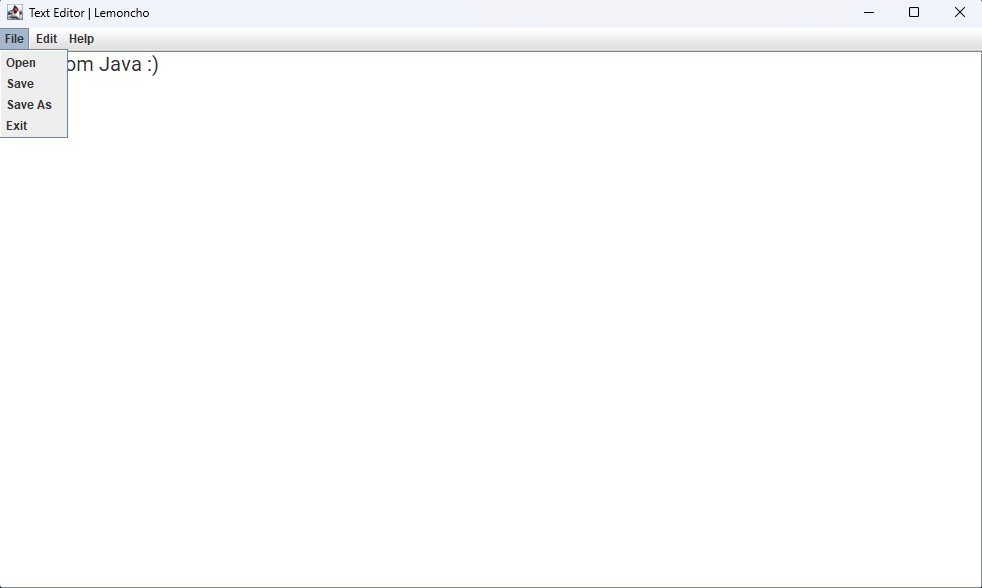
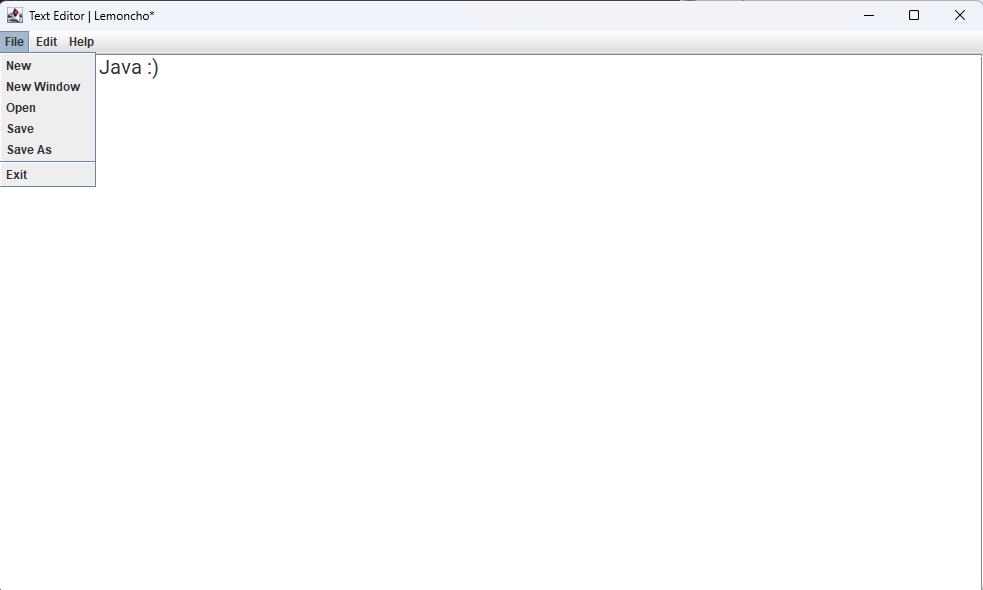
Added unsaved changes dialog
Added unsaved changes dialog. new,new window and word wrap JMenuItems

Changed region(s): [[0.0, 0.0, 1.0, 0.3367], [0.9165, 0.0, 1.0, 0.0306], [0.9776, 0.9796, 1.0, 1.0]]

diff --git a/src/TextEditor.java b/src/TextEditor.java
@@ -1,11 +1,11 @@
 import javax.swing.*;
+import javax.swing.event.DocumentEvent;
+import javax.swing.event.DocumentListener;
 import java.awt.*;
-import java.awt.event.ActionEvent;
-import java.awt.event.ActionListener;
-import java.awt.event.KeyEvent;
+import java.awt.event.*;
 import java.io.*;
 
-public class TextEditor extends JFrame implements ActionListener {
+public class TextEditor extends JFrame implements ActionListener, DocumentListener {
 
     private JTextArea textArea;
     private JScrollPane scrollPane;
@@ -13,6 +13,8 @@ public class TextEditor extends JFrame implements ActionListener {
     private JMenu fileMenu;
     private JMenu editMenu;
     private JMenu helpMenu;
+    private JMenuItem newFileItem;
+    private JMenuItem newWindowItem;
     private JMenuItem openMenuItem;
     private JMenuItem saveMenuItem;
     private JMenuItem saveAsMenuItem;
@@ -20,6 +22,7 @@ public class TextEditor extends JFrame implements ActionListener {
     private JMenuItem copyMenuItem;
     private JMenuItem pasteMenuItem;
     private JMenuItem cutMenuItem;
+    private JCheckBoxMenuItem wordWrapItem;
     private JMenuItem fontSettigsItem;
     private JMenuItem aboutMenuItem;
 
@@ -31,15 +34,45 @@ public class TextEditor extends JFrame implements ActionListener {
 
     public static Font font = new Font("Roboto", Font.PLAIN, 14);
 
+    private boolean unsavedChanges = false;
+
+    private final String frameLabel = "Text Editor | Lemoncho";
+
     public TextEditor(){
-        this.setTitle("Text Editor | Lemoncho");
+        this.setTitle(frameLabel);
         this.setSize(1000, 600);
+
+        this.addWindowListener(new WindowAdapter() {
+            @Override
+            public void windowClosing(WindowEvent e) {
+                super.windowClosing(e);
+
+                if (unsavedChanges)
+                {
+                    setDefaultCloseOperation(JFrame.DO_NOTHING_ON_CLOSE);
+                    int v = showUnsavedChangesDialog();
+                    if (v ==  JOptionPane.YES_OPTION)
+                    {
+                        unsavedChanges = false;
+                        saveFile();
+                        dispose();
+                    } else if (v == JOptionPane.NO_OPTION)
+                    {
+                        unsavedChanges = false;
+                        dispose();
+                    }
+                }
+                else
+                    setDefaultCloseOperation(JFrame.DISPOSE_ON_CLOSE);
+            }
+        });
 
         textArea = new JTextArea();
         textArea.setEditable(true);
         textArea.setLineWrap(false);
         textArea.setFont(font);
         textArea.setSize(this.getSize());
+        textArea.getDocument().addDocumentListener(this);
 
         scrollPane = new JScrollPane(textArea);
 
@@ -62,6 +95,10 @@ public class TextEditor extends JFrame implements ActionListener {
         editMenu = new JMenu("Edit");
         helpMenu = new JMenu("Help");
 
+        newFileItem = new JMenuItem("New");
+        newFileItem.addActionListener(this);
+        newWindowItem = new JMenuItem("New Window");
+        newWindowItem.addActionListener(this);
         openMenuItem = new JMenuItem("Open");
         openMenuItem.addActionListener(this);
         saveMenuItem = new JMenuItem("Save");
@@ -76,6 +113,8 @@ public class TextEditor extends JFrame implements ActionListener {
         pasteMenuItem.addActionListener(this);
         cutMenuItem = new JMenuItem("Cut");
         cutMenuItem.addActionListener(this);
+        wordWrapItem = new JCheckBoxMenuItem("Word Wrap");
+        wordWrapItem.addActionListener(this);
         fontSettigsItem = new JMenuItem("Font Settings");
         fontSettigsItem.addActionListener(this);
         aboutMenuItem = new JMenuItem("About");
@@ -85,14 +124,19 @@ public class TextEditor extends JFrame implements ActionListener {
         menuBar.add(editMenu);
         menuBar.add(helpMenu);
 
+        fileMenu.add(newFileItem);
+        fileMenu.add(newWindowItem);
         fileMenu.add(openMenuItem);
         fileMenu.add(saveMenuItem);
         fileMenu.add(saveAsMenuItem);
+        fileMenu.addSeparator();
         fileMenu.add(exitMenuItem);
 
         editMenu.add(copyMenuItem);
         editMenu.add(pasteMenuItem);
         editMenu.add(cutMenuItem);
+        editMenu.addSeparator();
+        editMenu.add(wordWrapItem);
         editMenu.add(fontSettigsItem);
 
         helpMenu.add(aboutMenuItem);
@@ -100,13 +144,19 @@ public class TextEditor extends JFrame implements ActionListener {
         this.setContentPane(scrollPane);
         //this.getContentPane().add(scrollPane);
         this.setJMenuBar(menuBar);
-        this.setDefaultCloseOperation(JFrame.EXIT_ON_CLOSE);
+        this.setDefaultCloseOperation(JFrame.DISPOSE_ON_CLOSE);
         this.setLocationRelativeTo(null);
         this.setVisible(true);
     }
 
     @Override
     public void actionPerformed(ActionEvent e) {
+        if (e.getSource() == newFileItem)
+            newFile();
+
+        if (e.getSource() == newWindowItem)
+            new TextEditor();
+
         if(e.getSource() == openMenuItem)
             openFile();
 
@@ -133,6 +183,9 @@ public class TextEditor extends JFrame implements ActionListener {
             JOptionPane.showMessageDialog(null, "This is a text editor that includes features like \nchanging the font and is made in java", "About",JOptionPane.INFORMATION_MESSAGE);
         }
 
+        if (e.getSource() == wordWrapItem)
+            textArea.setLineWrap(!textArea.getLineWrap());
+
         if (e.getSource() == fontSettigsItem)
         {
             new FontChooser(this, true);
@@ -140,12 +193,55 @@ public class TextEditor extends JFrame implements ActionListener {
         }
     }
 
+    private void newFile()
+    {
+        int v = showUnsavedChangesDialog();
+        if (v == JOptionPane.YES_OPTION)
+        {
+            saveFile();
+            textArea.setText("");
+            unsavedChanges = false;
+            setTitle(frameLabel);
+        } else if (v == JOptionPane.NO_OPTION)
+        {
+            textArea.setText("");
+            unsavedChanges = false;
+            setTitle(frameLabel);
+        }
+    }
+
     private void openFile(){
         try {
-            int v = fileChooser.showOpenDialog(null);
-            if (v == JFileChooser.APPROVE_OPTION) {
-                file = fileChooser.getSelectedFile();
-                setTextToFile();
+            if (unsavedChanges) {
+                int answer = showUnsavedChangesDialog();
+                if (answer == JOptionPane.YES_OPTION) {
+                    saveFile();
+
+                    int v = fileChooser.showOpenDialog(null);
+                    if (v == JFileChooser.APPROVE_OPTION) {
+                        file = fileChooser.getSelectedFile();
+                        setTextToFile();
+                        unsavedChanges = false;
+                        this.setTitle(frameLabel);
+                    }
+                } else if (answer == JOptionPane.NO_OPTION) {
+
+                    int v = fileChooser.showOpenDialog(null);
+                    if (v == JFileChooser.APPROVE_OPTION) {
+                        file = fileChooser.getSelectedFile();
+                        setTextToFile();
+                        unsavedChanges = false;
+                        this.setTitle(frameLabel);
+                    }
+                }
+            }else {
+                int v = fileChooser.showOpenDialog(null);
+                if (v == JFileChooser.APPROVE_OPTION) {
+                    file = fileChooser.getSelectedFile();
+                    setTextToFile();
+                    unsavedChanges = false;
+                    this.setTitle(frameLabel);
+                }
             }
 
         }catch (Exception ex){
@@ -157,12 +253,16 @@ public class TextEditor extends JFrame implements ActionListener {
             if (file != null)
             {
                 saveFileToDisk();
+                unsavedChanges = false;
+                this.setTitle(frameLabel);
             }
             else {
                 int v = fileChooser.showSaveDialog(null);
                 if (v == JFileChooser.APPROVE_OPTION) {
                     file = fileChooser.getSelectedFile();
                     saveFileToDisk();
+                    unsavedChanges = false;
+                    this.setTitle(frameLabel);
                 }
             }
         }catch (Exception ex){
@@ -177,6 +277,8 @@ public class TextEditor extends JFrame implements ActionListener {
             if (v == JFileChooser.APPROVE_OPTION) {
                 file = fileChooser.getSelectedFile();
                 saveFileToDisk();
+                unsavedChanges = false;
+                this.setTitle(frameLabel);
             }
         }catch (Exception ex)
         {
@@ -258,4 +360,28 @@ public class TextEditor extends JFrame implements ActionListener {
             ex.printStackTrace();
         }
     }
+
+    private int showUnsavedChangesDialog()
+    {
+        return JOptionPane.showConfirmDialog(null, "You have unsaved changes! \nDo you want to save them?", "Unsaved changes", JOptionPane.YES_NO_CANCEL_OPTION, JOptionPane.QUESTION_MESSAGE);
+    }
+
+    @Override
+    public void insertUpdate(DocumentEvent e) {
+        unsavedChanges = true;
+        this.setTitle(frameLabel + "*");
+    }
+
+    @Override
+    public void removeUpdate(DocumentEvent e) {
+        unsavedChanges = true;
+        this.setTitle(frameLabel + "*");
+    }
+
+    @Override
+    public void changedUpdate(DocumentEvent e) {
+        unsavedChanges = true;
+        this.setTitle(frameLabel + "*");
+    }
+
 }

diff --git a/README.md b/README.md
@@ -4,8 +4,8 @@
 
 ![Screenshot 2](Assets/Screenshots/TextEditor2.png)
 
-![Screenshot 2](Assets/Screenshots/TextEditor3.png)
+![Screenshot 3](Assets/Screenshots/TextEditor3.png)
 
-![Screenshot 2](Assets/Screenshots/TextEditor4.png)
+![Screenshot 4](Assets/Screenshots/TextEditor4.png)
 
-![Screenshot 2](Assets/Screenshots/TextEditor5.png)
+![Screenshot 5](Assets/Screenshots/TextEditor5.png)
